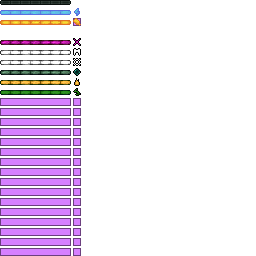
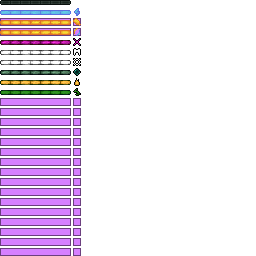
tweaked cooldown bars and scripts to compensate

Changed region(s): [[0.0, 0.0625, 0.3125, 0.1562]]

diff --git a/aseprite.py b/aseprite.py
@@ -36,14 +36,18 @@ def convert_aseprite():
                     savepath = os.path.join("testunused")
                 else:
                     savepath = os.path.join("Origins-5E-Resources/assets/chill/textures/item/", image.replace(Path(image).parts[0], "").replace(name, ""))
-                if not "low" in path or name == "xp_xp.ase":
+                
+                if "low" in path and name != "xp_xp.ase":
+                    low_power(image, savepath, name)
+                elif "bars" in path:
+                    os.system(ASEPRITE_PATH + " --layer \"Layer 1\" -b \"" + image + "\" -save-as " + savepath + "/{title}.png")
+                else:
                     os.system(ASEPRITE_PATH + " -b \"" + image + "\" -save-as " + savepath + "/{title}.png")
                     png = os.path.join(savepath, name.replace("ase", "png"))
                     if not "menu" in path:
                         mg = Image.open(png).convert('LA')
                         mg.save(png.replace(".png", "_greyscale.png"))
-                elif "low" in path:
-                    low_power(image, savepath, name)
+                    
 
 def Check_Power(power_path):
     os.chdir(Path(__file__).parents[1])
@@ -65,7 +69,7 @@ def Validate(Data):
 
     for path, subdirs, files in os.walk("./aseprite files"):
         for name in files:
-            if not "pallet" in name and not path.endswith("unused"):
+            if not "pallet" in name and not path.endswith("unused") and not path.endswith("bars"):
                 if name.endswith(".aseprite"):
                     if click.confirm(f"Would you like to convert {name} to ase?", default=True):
                         os.rename(os.path.join(path, name), os.path.join(path, name.replace(".aseprite", ".ase")))

diff --git a/generate.py b/generate.py
@@ -80,9 +80,7 @@ def add_power(powers, category, predicate, directory, group=None, types=None):
         name = Id
         completed = False
         key_activated = False
-        if directory.endswith(".json"):
-            completed = True
-            num_completed += 1
+        
 
         with open(directory, 'r') as file:
             try:
@@ -105,6 +103,12 @@ def add_power(powers, category, predicate, directory, group=None, types=None):
 
                 else:
                     key_activated = False
+                if directory.endswith(".json"):
+                    completed = True
+                    num_completed += 1
+                else:
+                    with open("./saves/New World/datapacks/Origins-5E-Data/TODO.md", "a") as f:
+                        f.write(f"{group} {Id}: {name}\n{description}\n\n")
 
             except json.JSONDecodeError:
                 key_activated = False
@@ -154,6 +158,8 @@ def generate_json():
                 "passive": []
             },
         }}
+    with open("./saves/New World/datapacks/Origins-5E-Data/TODO.md", "w") as f:
+                f.write("##TO DO\n")
     for path, subdirs, files in os.walk(DATA):
         for name in files:
             if os.name == "nt":
